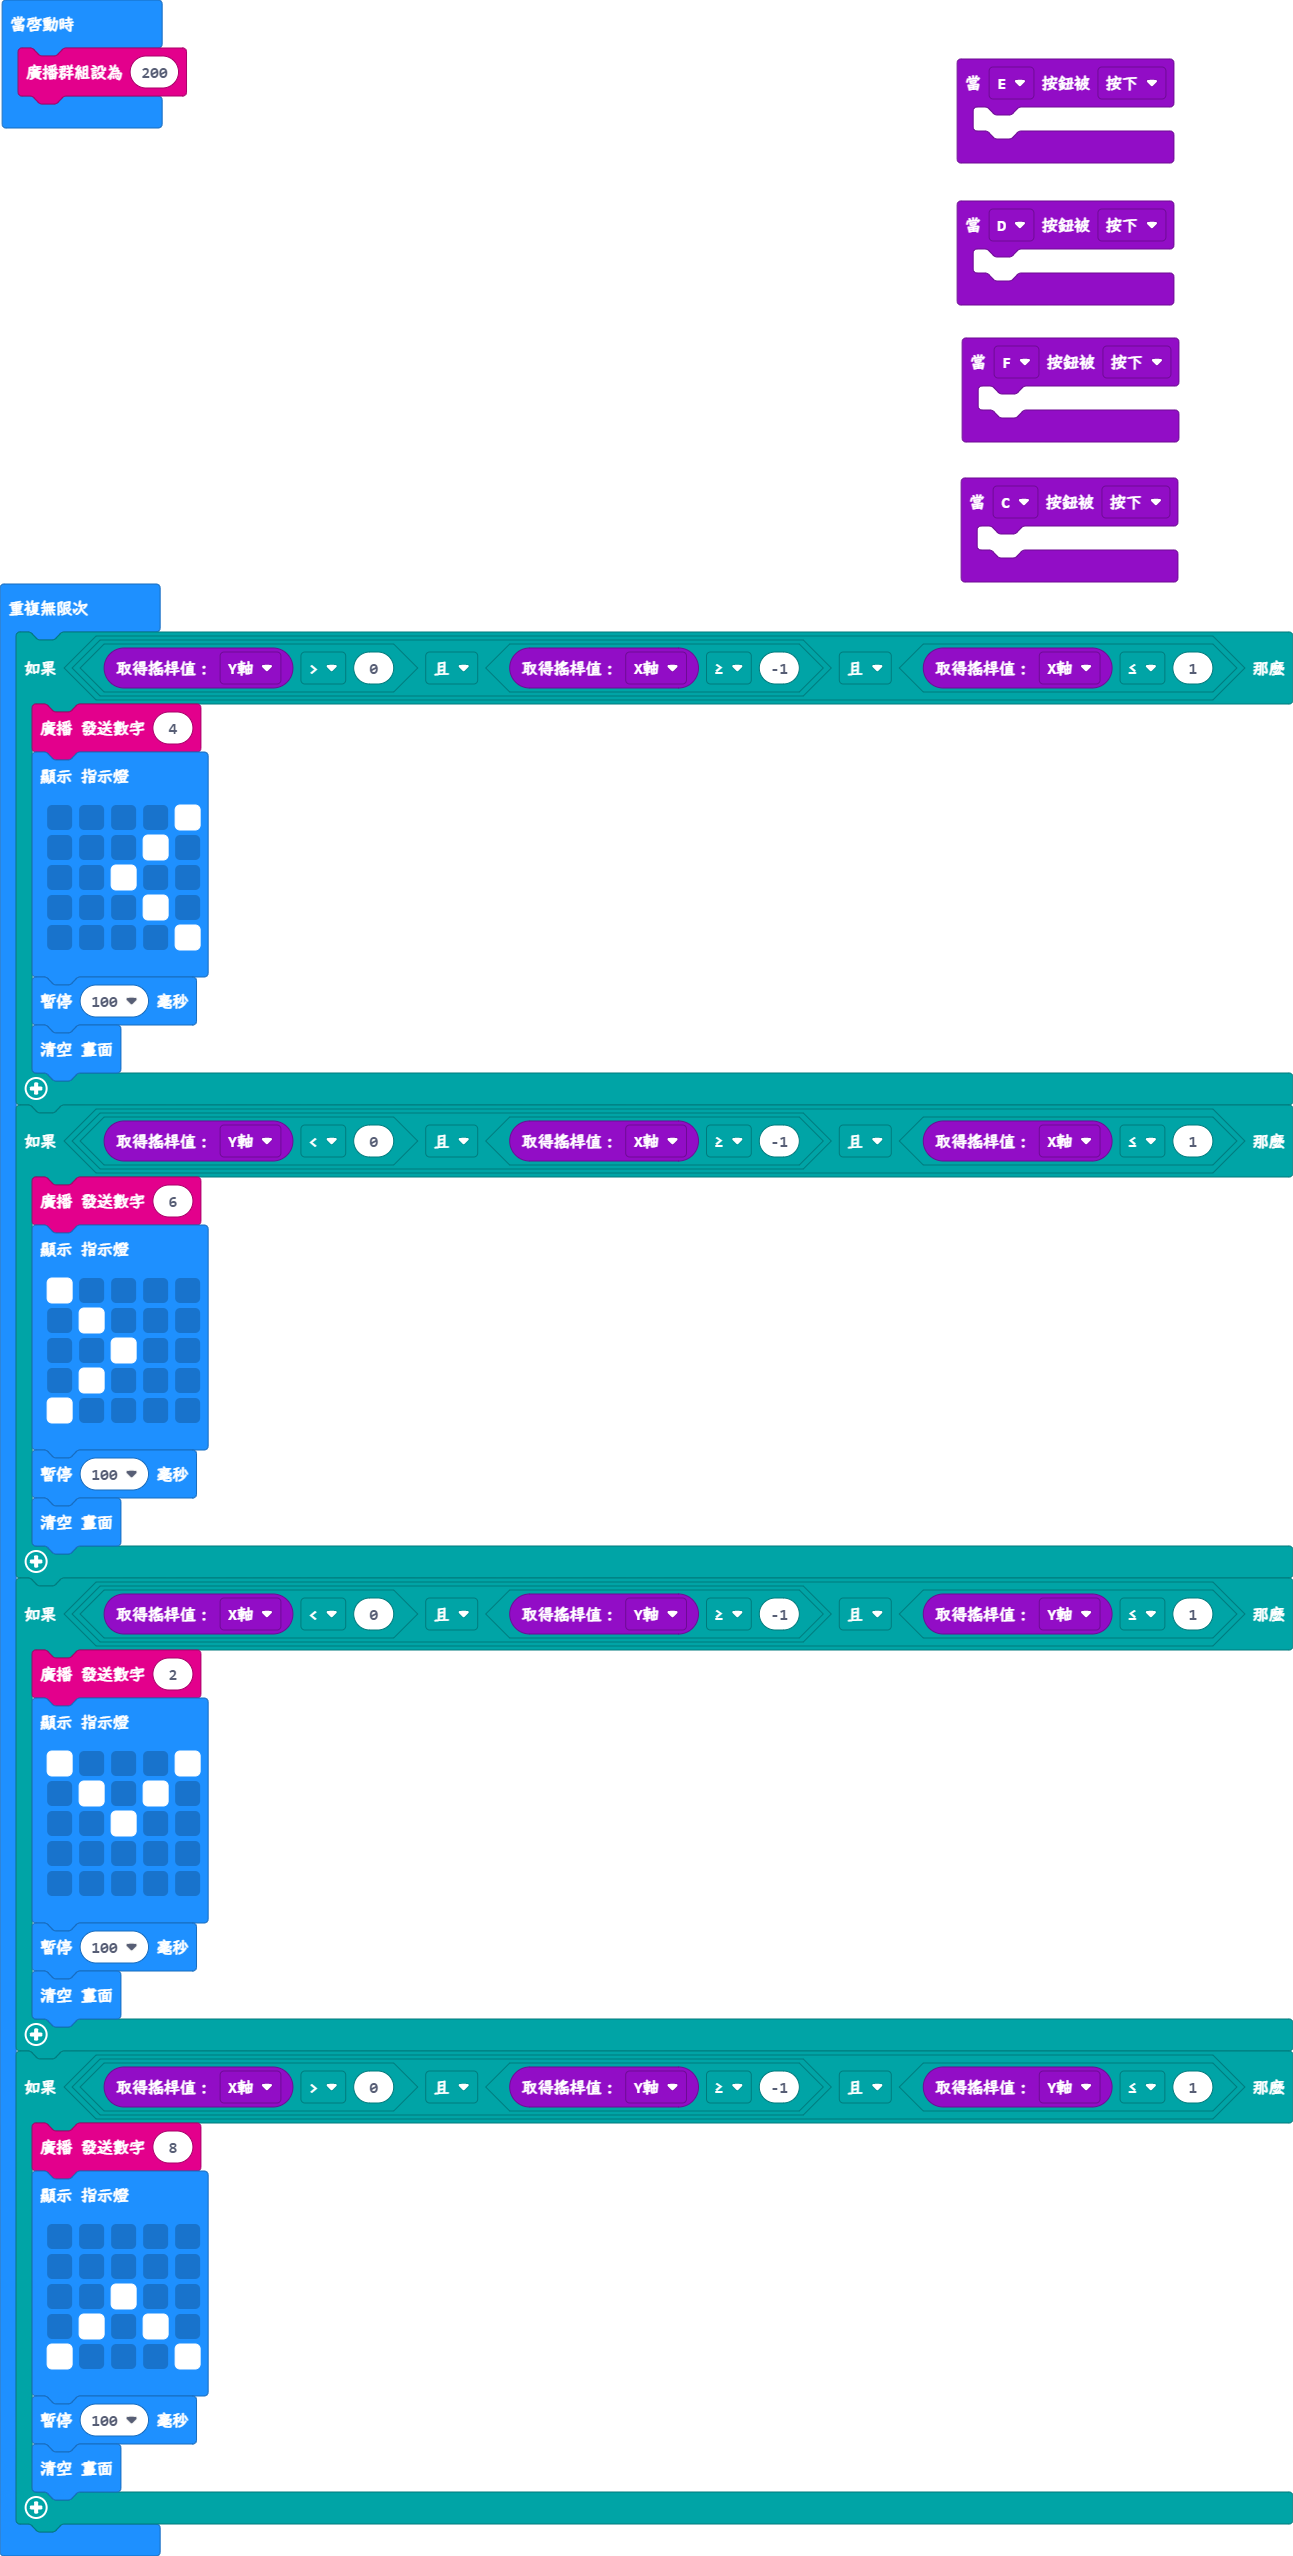
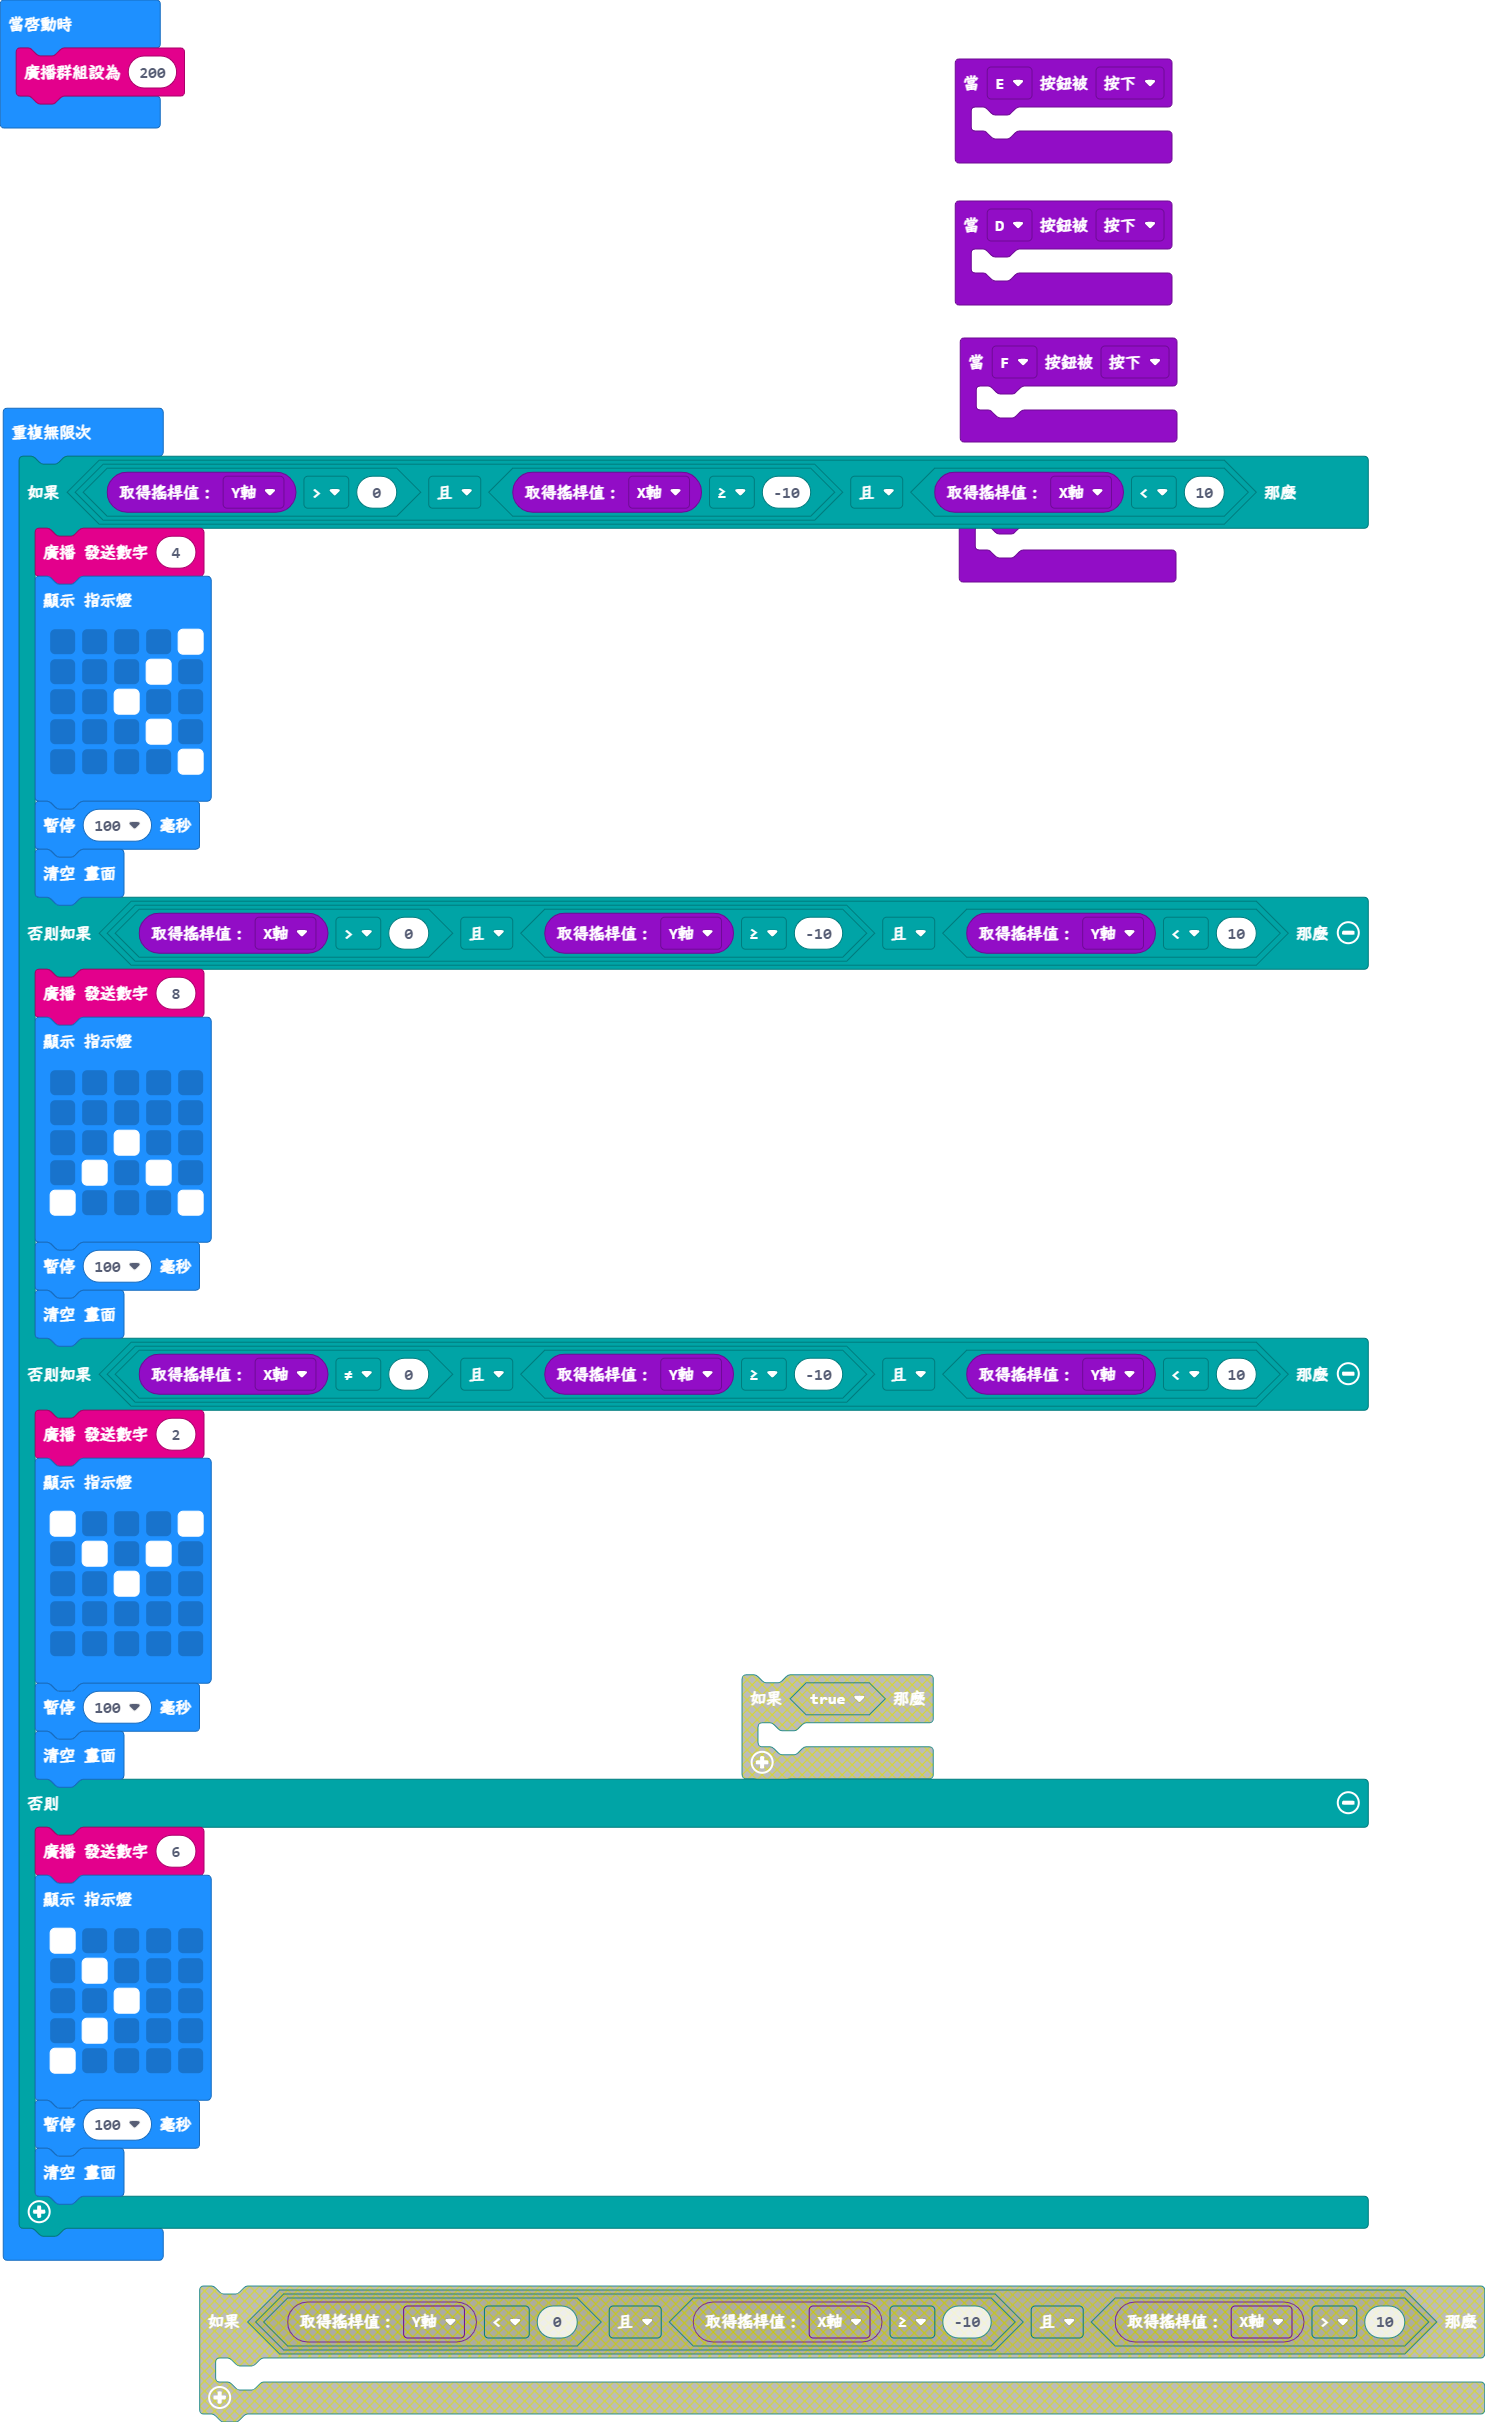
更新 main.blocks, main.ts

diff --git a/main.ts b/main.ts
@@ -12,7 +12,7 @@ KSB045.onBtnChanged(KSB045.btnName.E, KSB045.pushType.down, function () {
 })
 radio.setGroup(200)
 basic.forever(function () {
-    if (KSB045.getJoystickValue(KSB045.valueType.Y) > 0 && KSB045.getJoystickValue(KSB045.valueType.X) >= -1 && KSB045.getJoystickValue(KSB045.valueType.X) <= 1) {
+    if (KSB045.getJoystickValue(KSB045.valueType.Y) > 0 && KSB045.getJoystickValue(KSB045.valueType.X) >= -10 && KSB045.getJoystickValue(KSB045.valueType.X) < 10) {
         radio.sendNumber(4)
         basic.showLeds(`
             . . . . #
@@ -23,20 +23,18 @@ basic.forever(function () {
             `)
         basic.pause(100)
         basic.clearScreen()
-    }
-    if (KSB045.getJoystickValue(KSB045.valueType.Y) < 0 && KSB045.getJoystickValue(KSB045.valueType.X) >= -1 && KSB045.getJoystickValue(KSB045.valueType.X) <= 1) {
-        radio.sendNumber(6)
+    } else if (KSB045.getJoystickValue(KSB045.valueType.X) > 0 && KSB045.getJoystickValue(KSB045.valueType.Y) >= -10 && KSB045.getJoystickValue(KSB045.valueType.Y) < 10) {
+        radio.sendNumber(8)
         basic.showLeds(`
-            # . . . .
-            . # . . .
+            . . . . .
+            . . . . .
             . . # . .
-            . # . . .
-            # . . . .
+            . # . # .
+            # . . . #
             `)
         basic.pause(100)
         basic.clearScreen()
-    }
-    if (KSB045.getJoystickValue(KSB045.valueType.X) < 0 && KSB045.getJoystickValue(KSB045.valueType.Y) >= -1 && KSB045.getJoystickValue(KSB045.valueType.Y) <= 1) {
+    } else if (KSB045.getJoystickValue(KSB045.valueType.X) != 0 && KSB045.getJoystickValue(KSB045.valueType.Y) >= -10 && KSB045.getJoystickValue(KSB045.valueType.Y) < 10) {
         radio.sendNumber(2)
         basic.showLeds(`
             # . . . #
@@ -47,15 +45,14 @@ basic.forever(function () {
             `)
         basic.pause(100)
         basic.clearScreen()
-    }
-    if (KSB045.getJoystickValue(KSB045.valueType.X) > 0 && KSB045.getJoystickValue(KSB045.valueType.Y) >= -1 && KSB045.getJoystickValue(KSB045.valueType.Y) <= 1) {
-        radio.sendNumber(8)
+    } else {
+        radio.sendNumber(6)
         basic.showLeds(`
-            . . . . .
-            . . . . .
+            # . . . .
+            . # . . .
             . . # . .
-            . # . # .
-            # . . . #
+            . # . . .
+            # . . . .
             `)
         basic.pause(100)
         basic.clearScreen()
